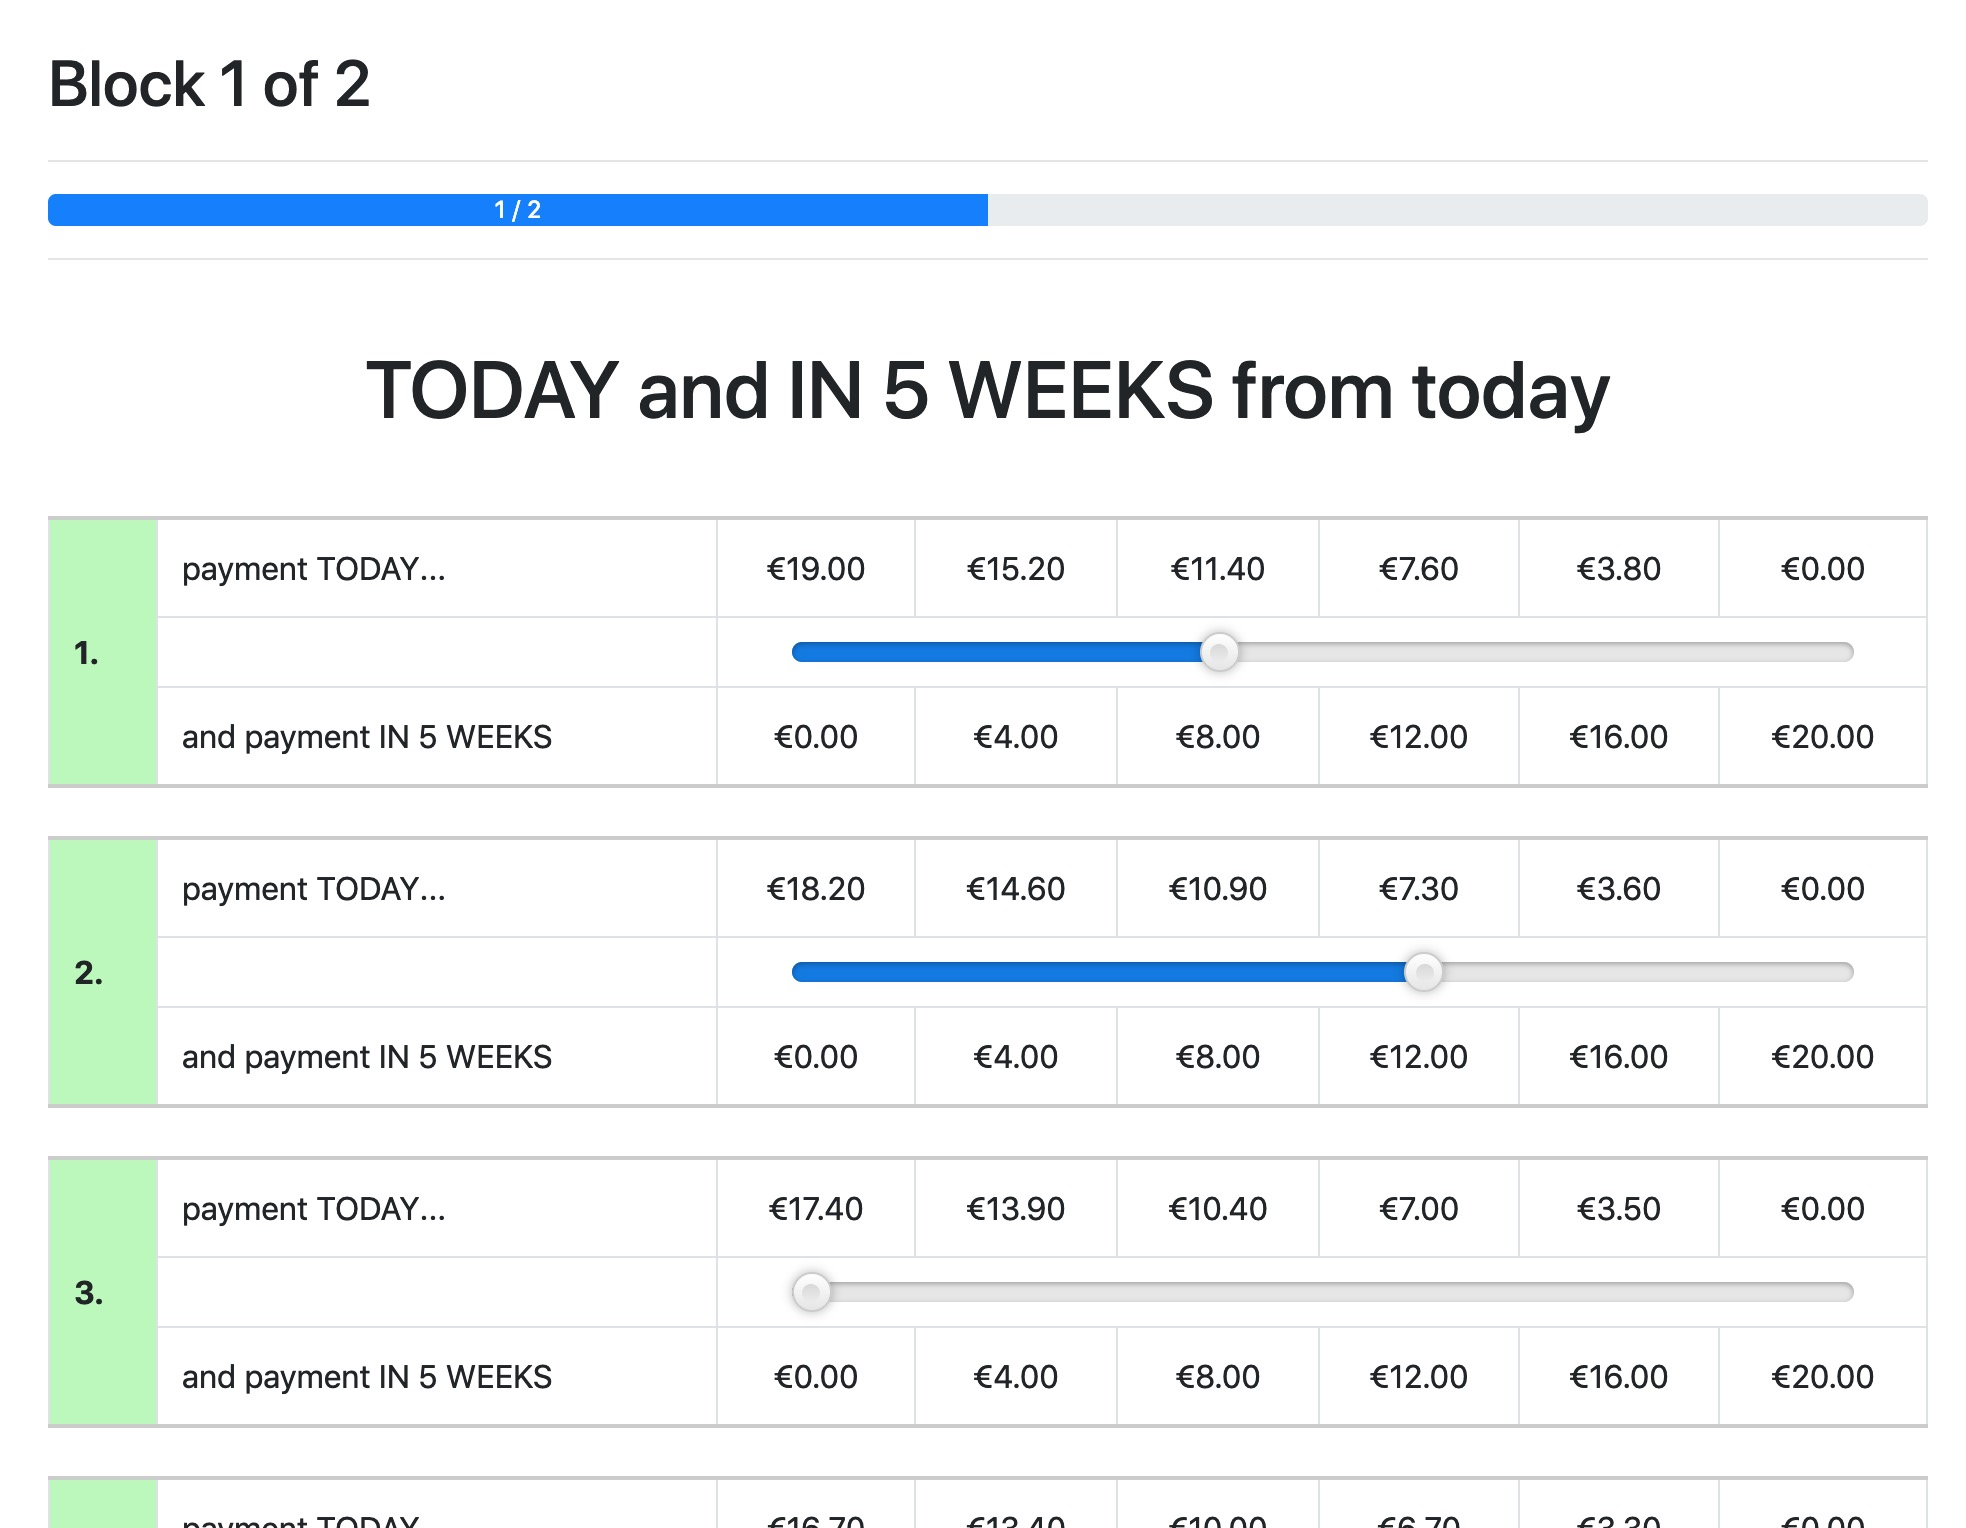
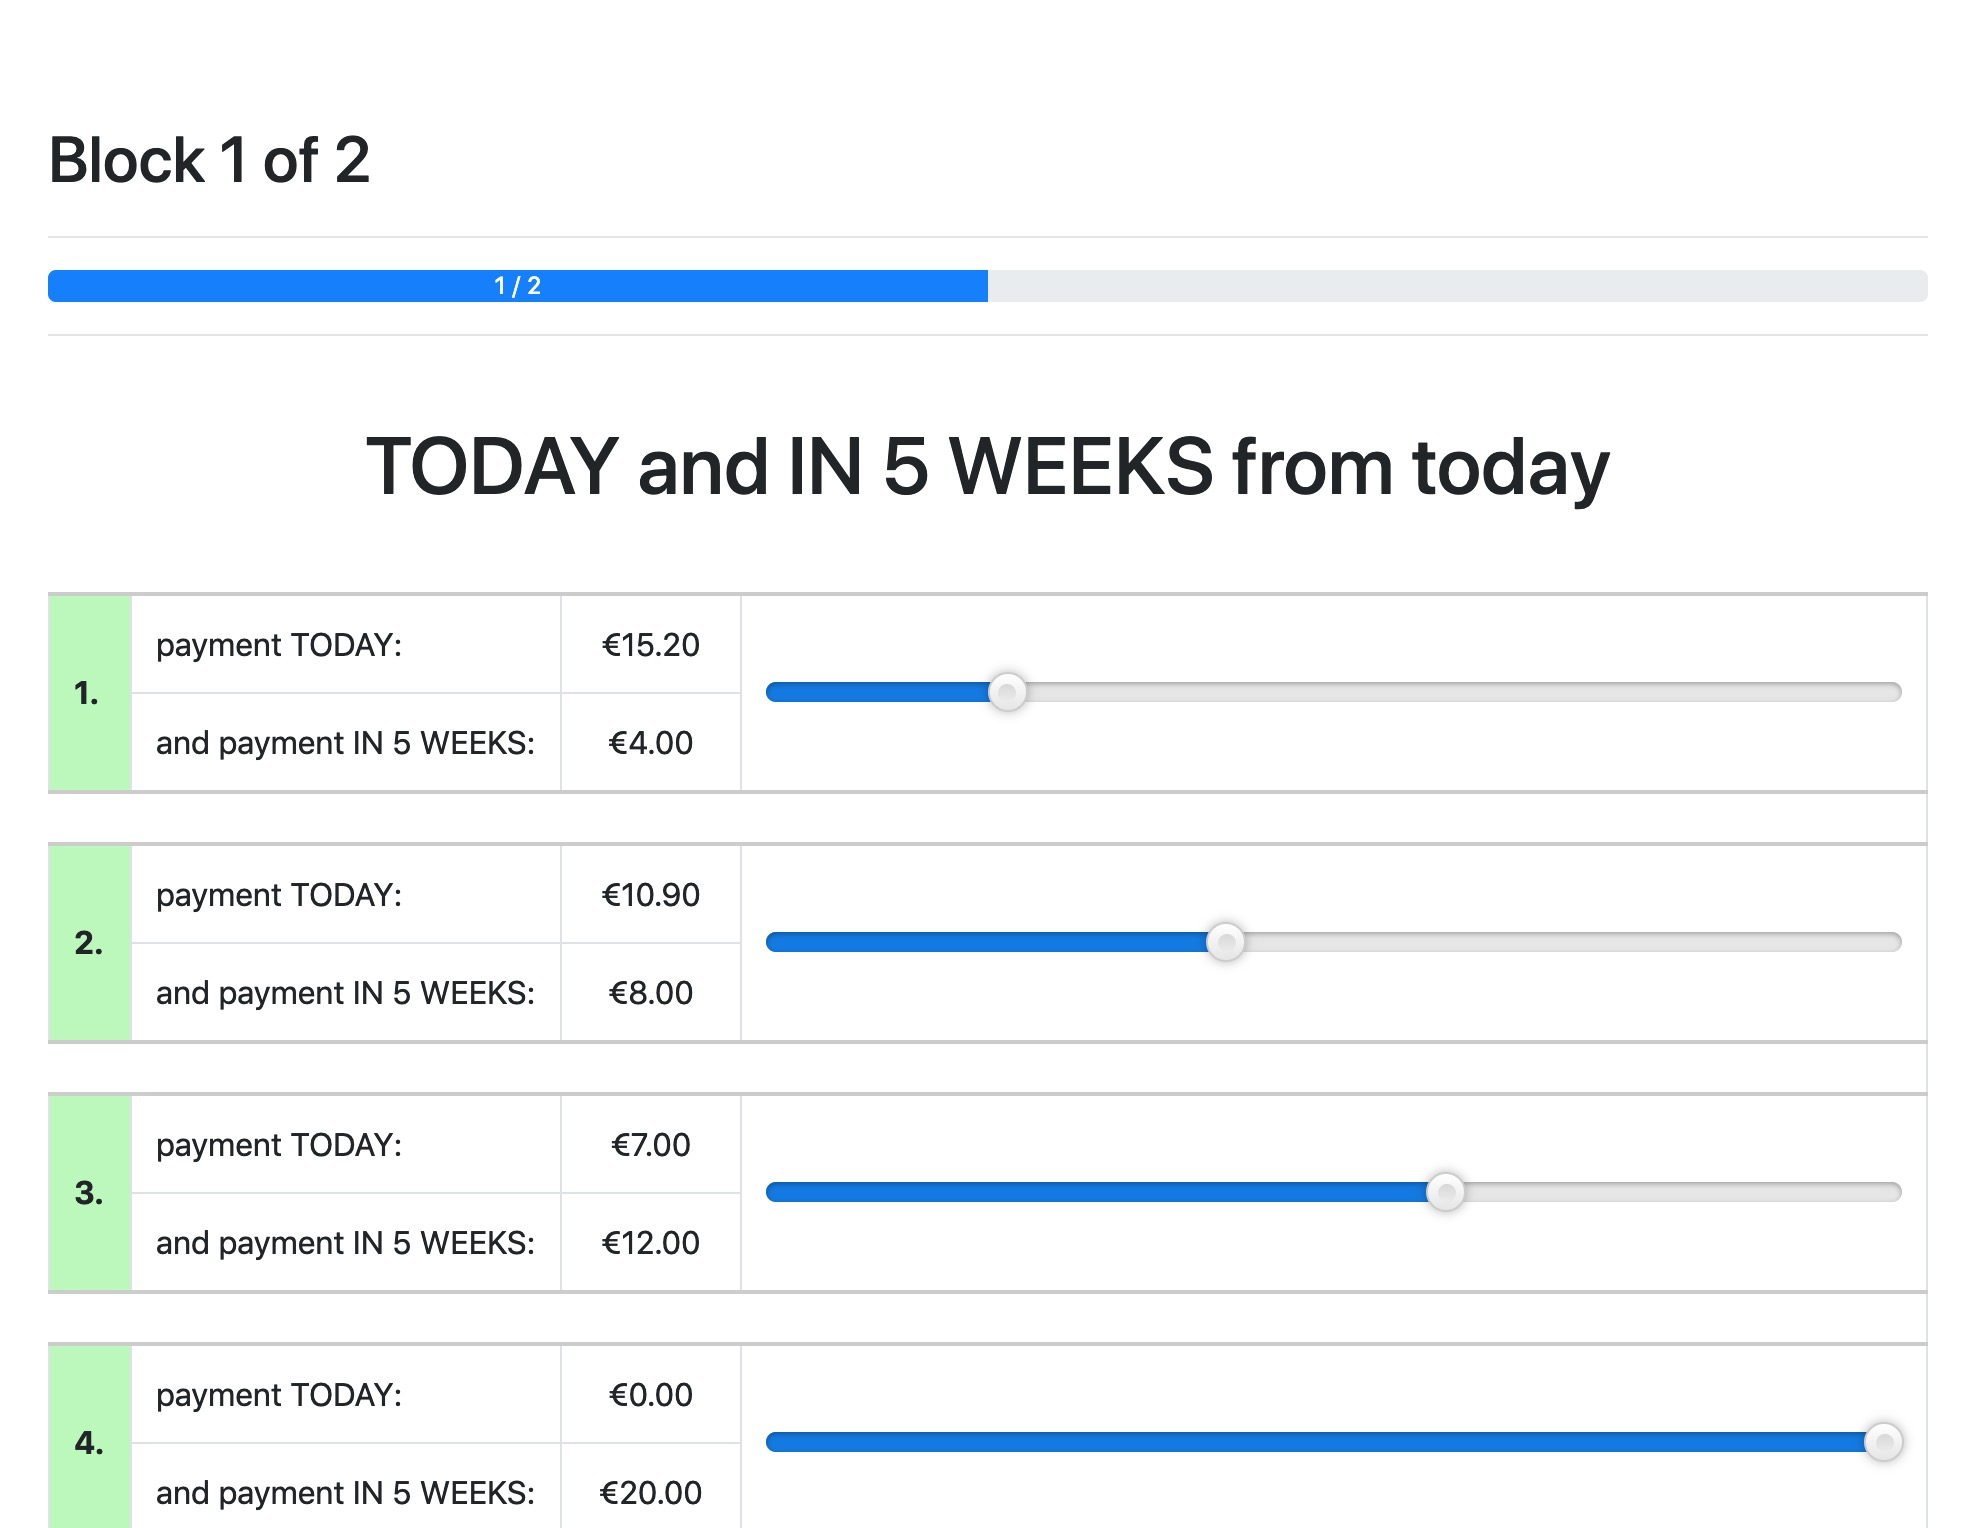
fix handling of slider visualization

diff --git a/templates/otime/BlockPage.html b/templates/otime/BlockPage.html
@@ -29,7 +29,7 @@ Block {{ step }} of {{ num_blocks }}
 
     {% if not use_slider %}
     <tr class="timepref__question-start timepref__question-unanswered timepref__question-index-{{question.question_number}}">
-        <th rowspan="3">{{ question.question_number }}.</th>
+        <th rowspan="3" width="10">{{ question.question_number }}.</th>
         <td>payment <span class="text-uppercase">{{ curr_block.text_delay_start }}</span>...</td>
         {% for value in question.start_values %}
         <td class="text-center">{{ value|c }}</td>
@@ -49,29 +49,6 @@ Block {{ step }} of {{ num_blocks }}
         </td>
         {% endfor %}
     </tr>
-    {% endif %} <!-- // endif: not use_slider -->
-
-    {% if use_slider %}
-    <tr class="timepref__question-start timepref__question-index-{{question.question_number}}">
-        <th rowspan="3">{{ question.question_number }}.</th>
-        <td>payment <span class="text-uppercase">{{ curr_block.text_delay_start }}</span>...</td>
-        {% for value in question.start_values %}
-        <td class="text-center">{{ value|c }}</td>
-        {% endfor %}
-    </tr>
-    <tr class="timepref__question-choices" data-question-index="{{question.question_number}}">
-        <td></td>
-        <td colspan="6">
-            <input type="range" min="1" max="6" step="1" value="1"/>
-        </td>
-    </tr>
-    <tr class="timepref__question-end">
-        <td>and payment <span class="text-uppercase">{{ curr_block.text_total_end }}</span></td>
-        {% for value in question.end_values %}
-        <td class="text-center">{{ value|c }}</td>
-        {% endfor %}
-    </tr>
-    {% endif %} <!-- // endif: use_slider -->
 
     {% if not forloop.last %}
     <tr class="timepref__spacer">
@@ -81,6 +58,52 @@ Block {{ step }} of {{ num_blocks }}
         {% endfor %}
     </tr>
     {% endif %} <!-- // endif: forloop.last -->
+    {% endif %} <!-- // endif: not use_slider -->
+
+    {% if use_slider %}
+    <tr class="timepref__question-start timepref__question-index-{{question.question_number}} timepref__question-choices"
+        data-question-index="{{question.question_number}}"
+        data-start-values=""
+        data-end-values="{{question.end_values | json}}">
+        <th rowspan="2" width="10">{{ question.question_number }}.</th>
+        <td class="text-nowrap">
+            payment <span class="text-uppercase">{{ curr_block.text_delay_start }}</span>:
+        </td>
+        <td class="text-center timepref__question-start-value text-nowrap" width="100">
+            0.00€
+        </td>
+        <td class="timepref__question-slider" rowspan="2" width="1000">
+            <div class="timepref__question-start-values">
+                {% for v in question.start_values %}
+                <div>{{v | c}}</div>
+                {% endfor %}
+            </div>
+            <div class="hidden timepref__question-end-values">
+                {% for v in question.end_values %}
+                <div>{{v | c}}</div>
+                {% endfor %}
+            </div>
+            <input type="range" min="1" max="{{num_choices}}" step="1" value="1"/>
+        </td>
+    </tr>
+    <tr class="timepref__question-end" data-question-index="{{question.question_number}}">
+        <td class="text-nowrap">
+            and payment <span class="text-uppercase">{{ curr_block.text_total_end }}</span>:
+        </td>
+        <td class="text-center timepref__question-end-value" >
+            0.00€
+        </td>
+    </tr>
+
+    {% if not forloop.last %}
+    <tr class="timepref__spacer">
+        <td></td>
+        <td></td>
+        <td></td>
+        <td></td>
+    </tr>
+    {% endif %} <!-- // endif: forloop.last -->
+    {% endif %} <!-- // endif: use_slider -->
 
     {% endfor %} <!-- // endfor: curr_block.questions -->
     </tbody>

diff --git a/static/otime/scripts/block.js b/static/otime/scripts/block.js
@@ -20,7 +20,6 @@
         var choiceRow = jQuery(this);
         var questionIndex = parseInt(choiceRow.attr('data-question-index'));
         var questionRow = jQuery('.timepref__question-index-' + questionIndex);
-        var valueWidth = jQuery('.timepref__question-start td.text-center').first().width();
 
         choiceRow.find('.timepref__question-choice').on('click', function (e) {
             if (jQuery(e.target).is('input')) {
@@ -47,20 +46,22 @@
 
         choiceRow.find('input[type="range"]').each(function () {
             var rangeInput = jQuery(this);
-            var rangeTd = rangeInput.closest('td');
-
-            rangeTd.css({
-                paddingLeft: valueWidth / 2,
-                paddingRight: valueWidth / 2
-            });
-
+            var lastValue = -1;
             rangeInput.rangeslider({
                 polyfill: false,
-                onSlideEnd: function () {
+                onSlide: function (position, value) {
+                    if (lastValue !== value) {
+                        updateSliderValues(questionRow, value);
+                        lastValue = value;
+                    }
+                },
+                onSlideEnd: function (position, value) {
+                    updateSliderValues(questionRow, value);
                     checkAllQuestions();
                     updateState();
                 }
             });
+            updateSliderValues(questionRow, 1);
         });
     });
 
@@ -101,5 +102,18 @@
             jQuery('.timepref__next-button').show();
             jQuery('.timepref__waiting').hide();
         }
+    }
+
+    /**
+     * Updates all displayed values for the given slider choice index (1-based).
+     * @param questionRow The TR for the question
+     * @param choiceIndex The selected choice index (1-based)
+     */
+    function updateSliderValues(questionRow, choiceIndex) {
+        var startValue = questionRow.find('.timepref__question-start-values').children().eq(choiceIndex - 1).html();
+        var endValue = questionRow.find('.timepref__question-end-values').children().eq(choiceIndex - 1).html();
+
+        questionRow.find('.timepref__question-start-value').html(startValue);
+        questionRow.next().find('.timepref__question-end-value').html(endValue);
     }
 }());

diff --git a/static/otime/styles/block.css b/static/otime/styles/block.css
@@ -14,7 +14,8 @@
 .timepref__question-start {
     border-top: 2px solid #ccc;
 }
-.timepref__question-choices {
+.timepref__question-choices,
+.timepref__with-slider .timepref__question-slider {
     border-bottom: 2px solid #ccc;
 }
 .timepref__with-slider .timepref__question-choices {
@@ -44,6 +45,17 @@
 .timepref__question-choice-selected,
 .timepref__question-choice-selected:hover {
     background-color: #baf8b9;
+}
+
+.timepref__with-slider .timepref__question-start-value,
+.timepref__with-slider .timepref__question-end-value,
+.timepref__with-slider .timepref__question-slider {
+    vertical-align: middle;
+}
+
+.timepref__with-slider .timepref__question-slider .timepref__question-start-values,
+.timepref__with-slider .timepref__question-slider .timepref__question-end-values {
+    display: none;
 }
 
 .timepref__next-button {

diff --git a/pages.py b/pages.py
@@ -27,7 +27,8 @@ class BlockPage(Page):
             'num_blocks': num_blocks,
             'progress': round(step * 100 / num_blocks),
             'curr_block': current_block,
-            'use_slider': VISUALIZE_CHOICES_AS_SLIDER
+            'use_slider': VISUALIZE_CHOICES_AS_SLIDER,
+            'num_choices': current_block.number_of_intermediate_choices + 2
         }
 
     def error_message(self, values):
